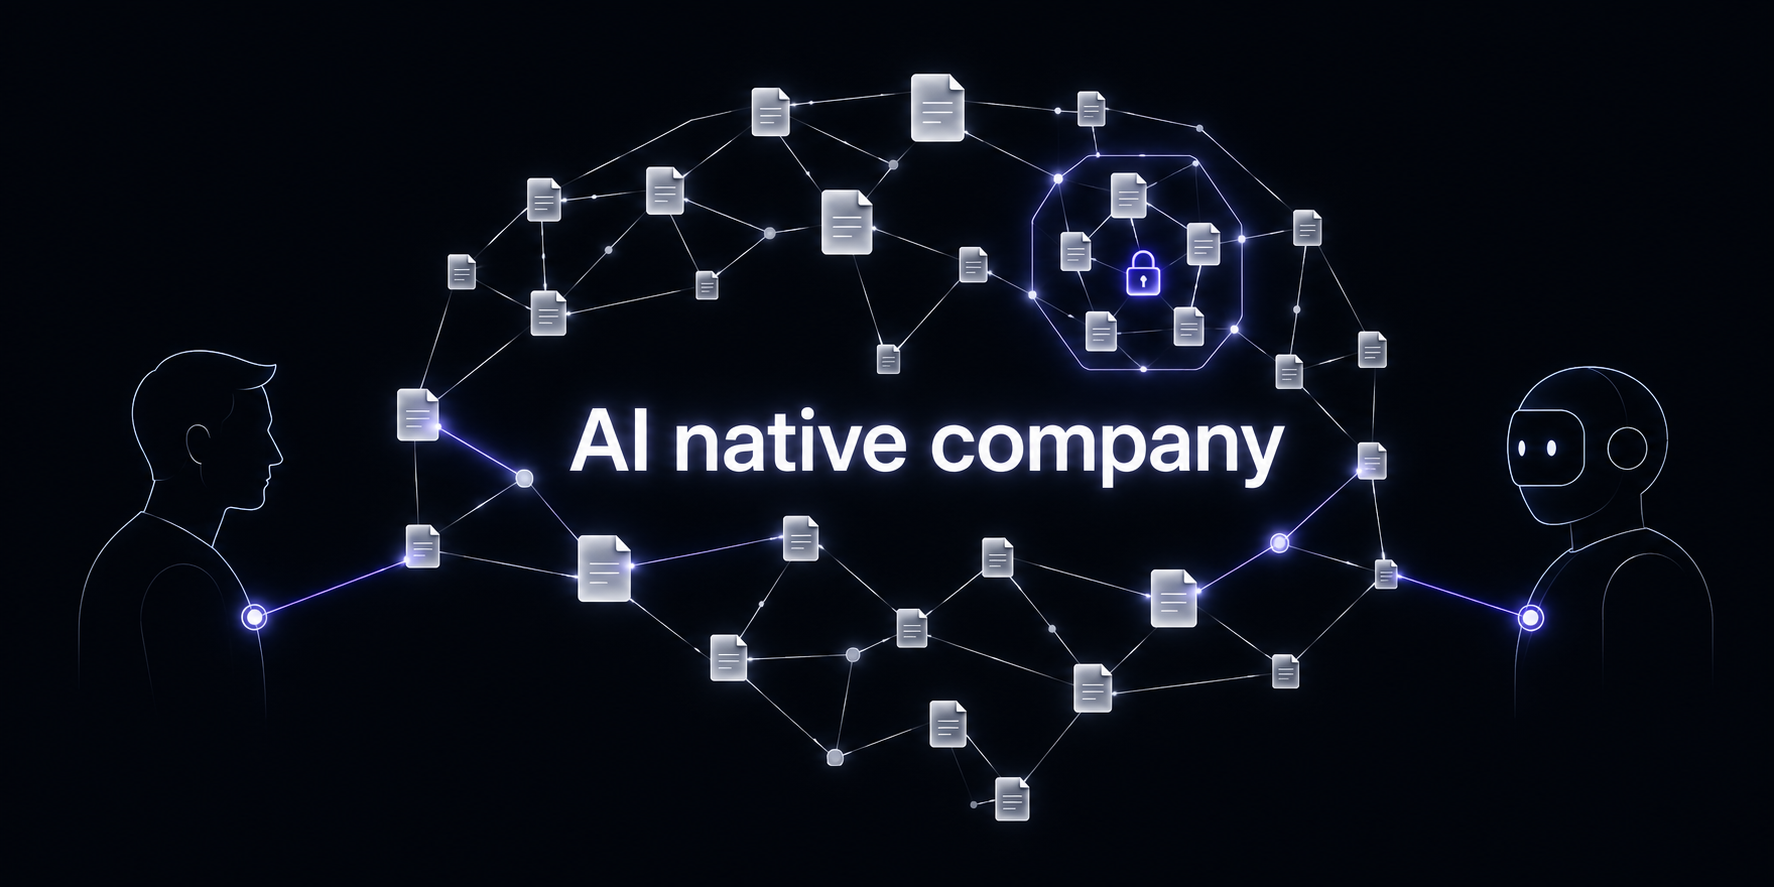
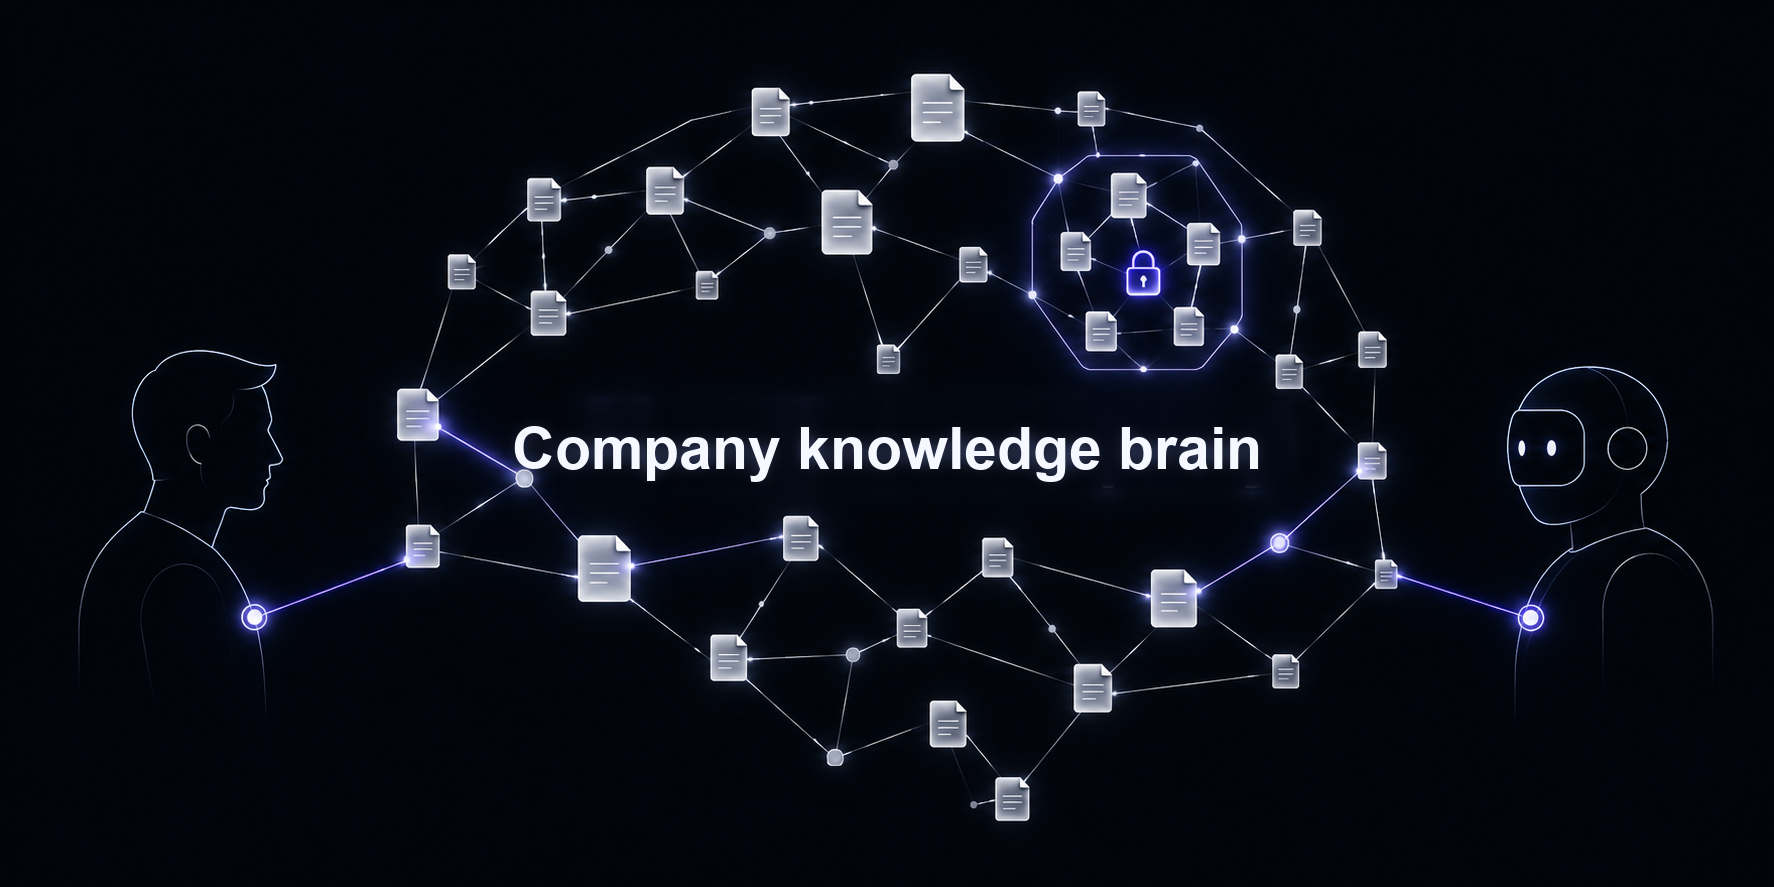
docs: rename cover + README title to 'Company knowledge brain'
Drop the old 'AI-Native Company' product name from the README H1 and cover alt
text, and repaint the baked-in cover image text to 'Company knowledge brain'.
Keep 'AI-native' where it is used as an adjective/value (README, canon).

Changed region(s): [[0.279, 0.4566, 0.7441, 0.5479]]

diff --git a/README.md b/README.md
@@ -1,9 +1,9 @@
 <!-- markdownlint-disable MD033 MD041 -->
 <div align="center">
 
-<img src=".github/assets/cover.png" alt="The AI-Native Company — a company's brain built from Markdown files, read by both humans and AI agents" width="100%" />
+<img src=".github/assets/cover.png" alt="The Company Knowledge Brain — a company's brain built from Markdown files, read by both humans and AI agents" width="100%" />
 
-# The AI-Native Company
+# The Company Knowledge Brain
 
 **Your company's brain — one folder of Markdown that humans and AI agents both read.**
 